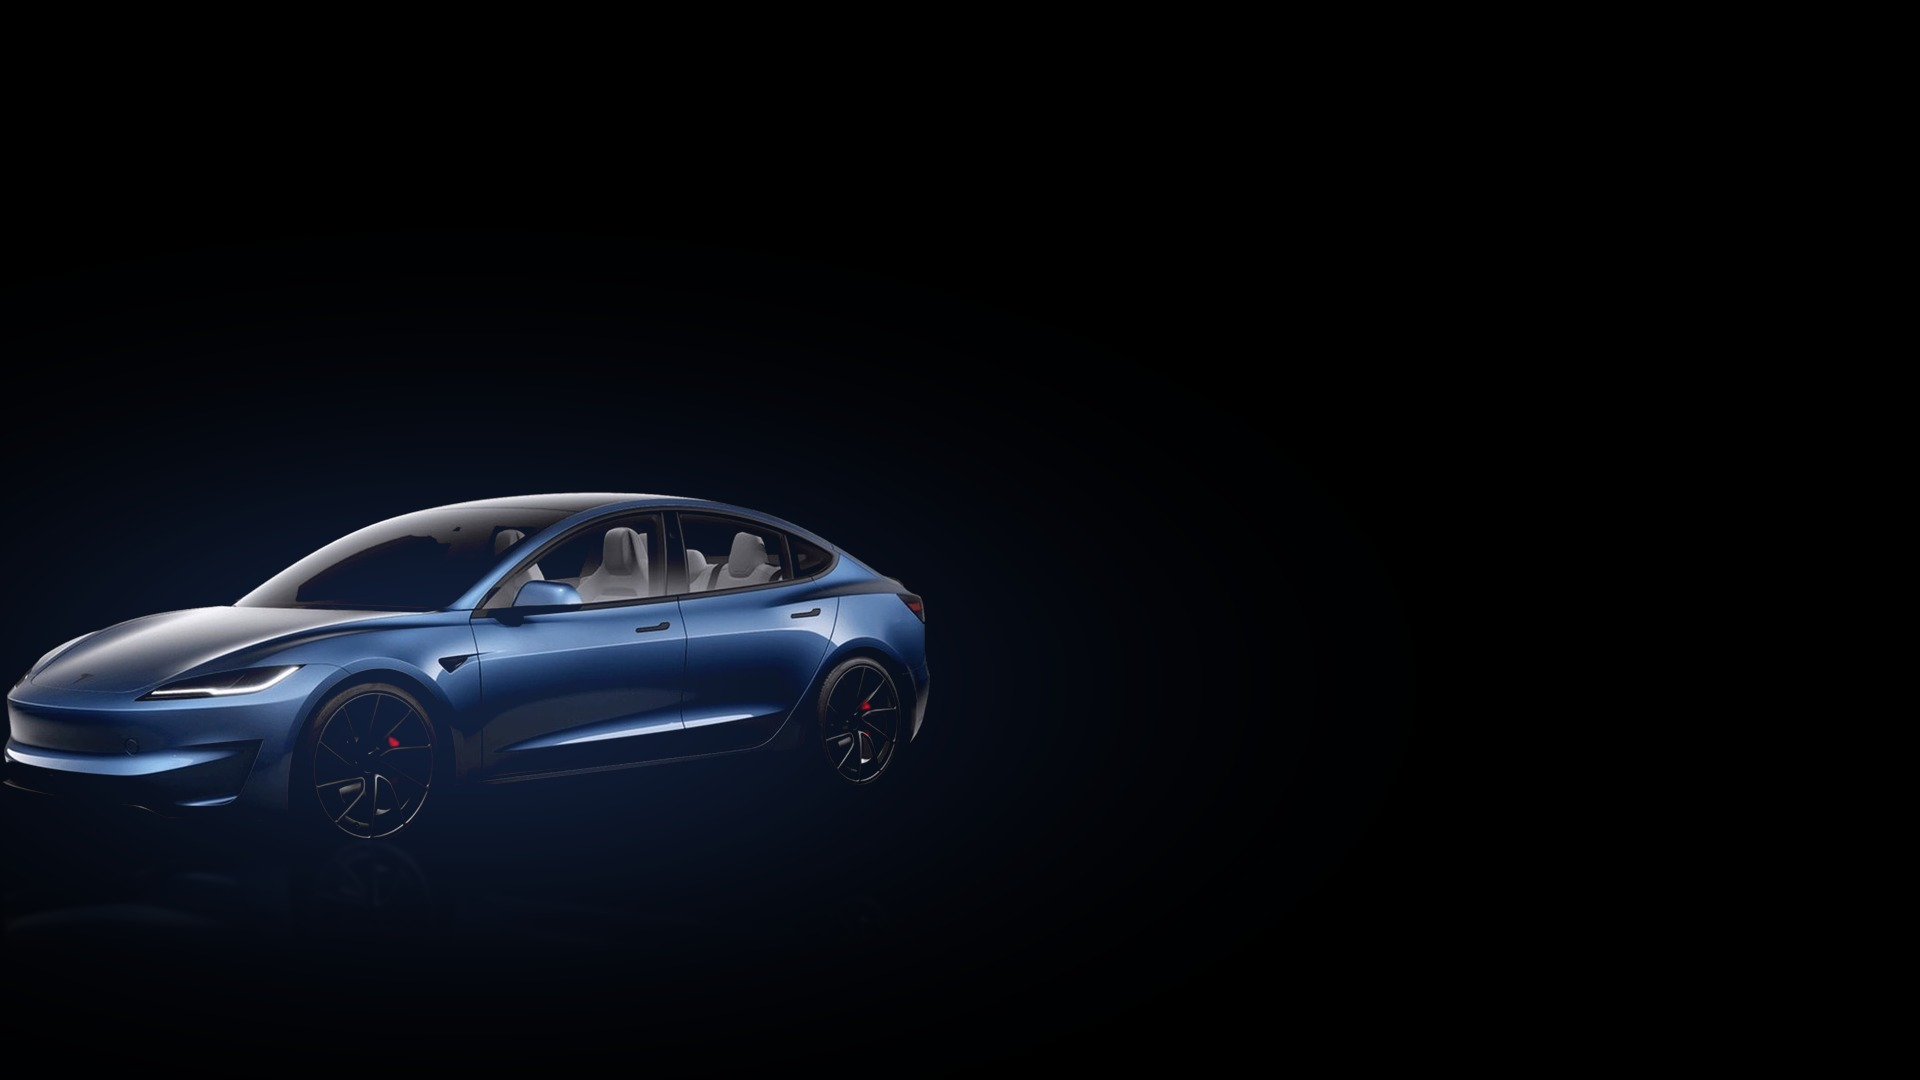
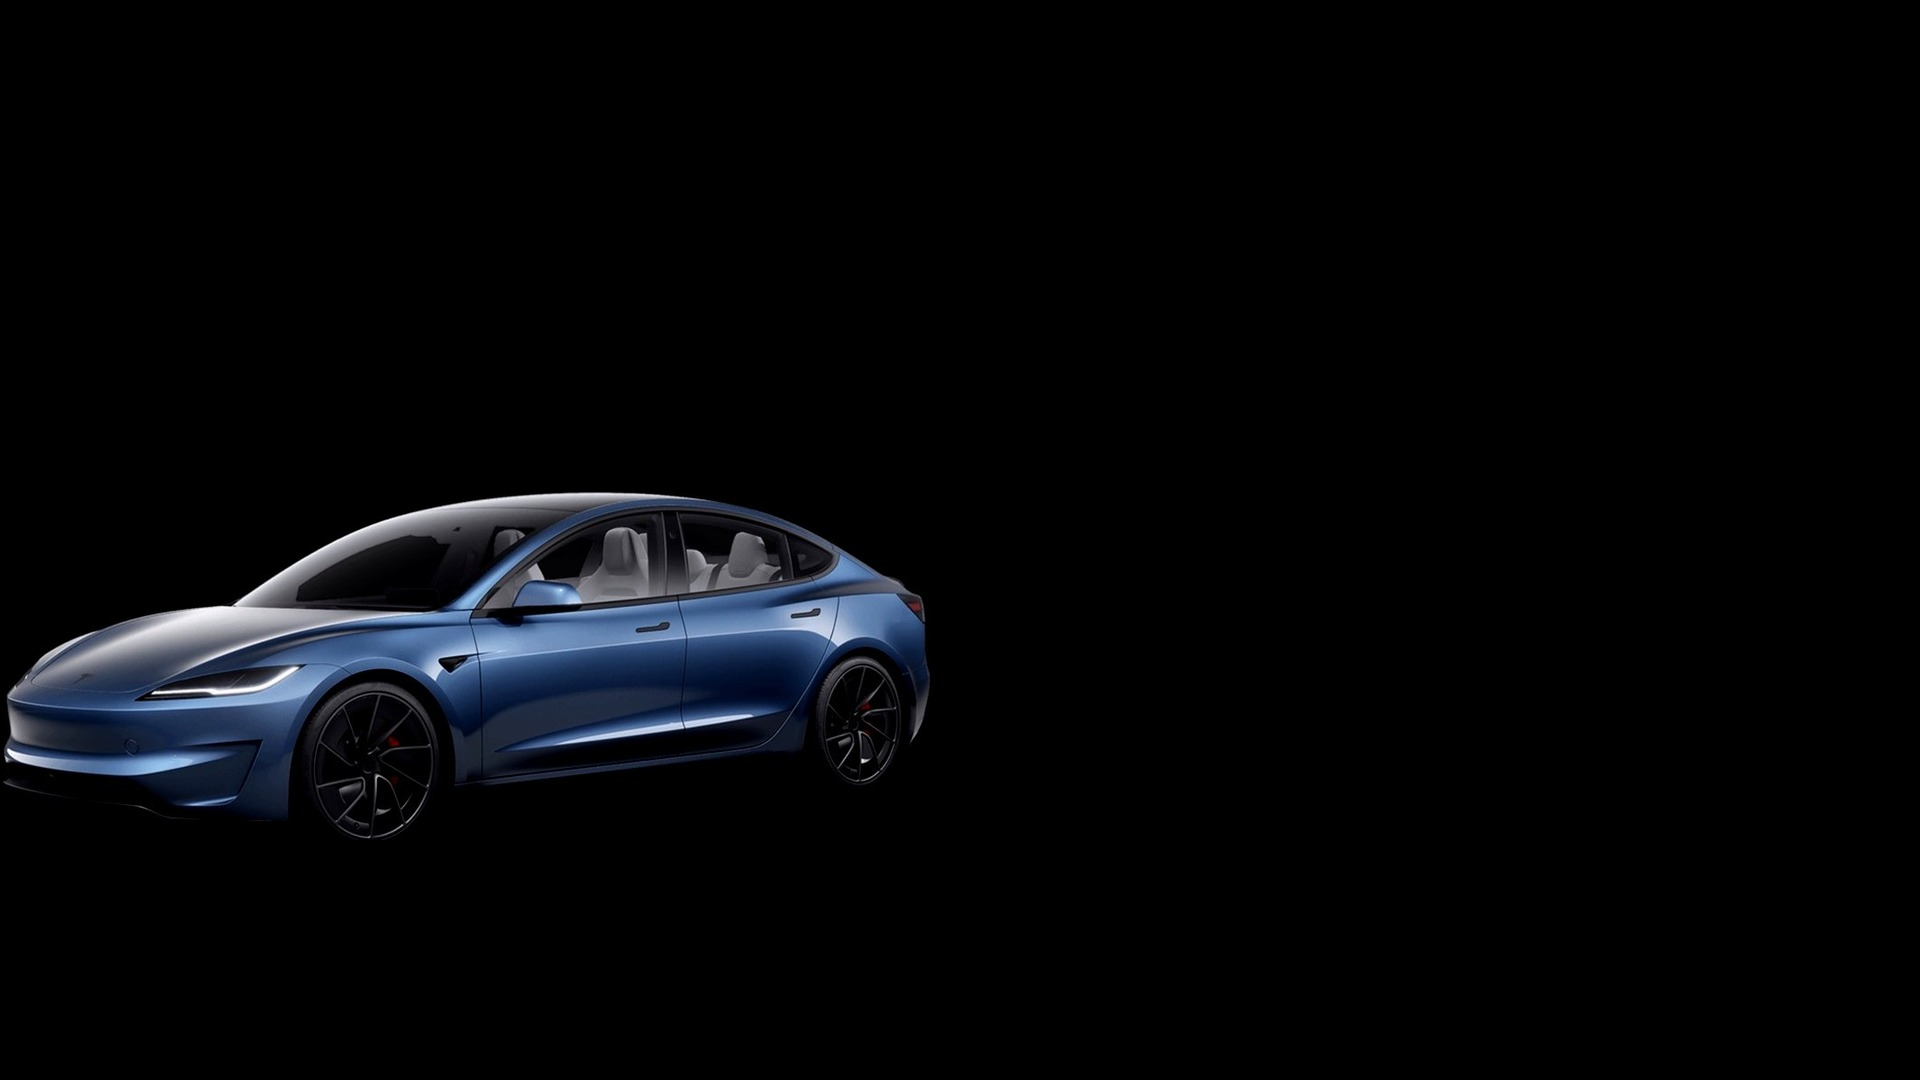
Original car at 0.9x SW on black, fixed app bar, after-hours Close/AH, wrapping news

Changed region(s): [[0.0, 0.5806, 0.5, 0.8556], [0.0, 0.3972, 0.4062, 0.6417], [0.0938, 0.6111, 0.125, 0.6417]]

diff --git a/markets.js b/markets.js
@@ -26,8 +26,8 @@
     var p = div('mkp', col), h = div('mkh', p, '<span>' + title + '</span>');
     if (extra) { var e = div('', h); e.id = extra; }
     for (var i = 0; i < keys.length; i++) {
-      var r = div('mkr', p, '<div class="t">' + label(keys[i]) + '</div><div class="s"></div><div class="p">–</div><div class="c"></div>');
-      rows[keys[i]] = {el: r, s: r.children[1], p: r.children[2], c: r.children[3], v: null, line: null};
+      var r = div('mkr', p, '<div class="t">' + label(keys[i]) + '</div><div class="s"></div><div class="p">–</div><div class="c"></div><div class="x"></div>');
+      rows[keys[i]] = {el: r, s: r.children[1], p: r.children[2], c: r.children[3], x: r.children[4], v: null, line: null};
     }
     return p;
   }
@@ -101,13 +101,25 @@
       if (p > 0 && prev > 0) set(s, p, (p / prev - 1) * 100);
     });
   }
+  function pct(a, b) { var v = (a / b - 1) * 100; return (v >= 0 ? '+' : '') + v.toFixed(1) + '%'; }
   function stocks() {
+    var open = mktOpen();
     SYMS.forEach(function (s) {
-      get('https://query1.finance.yahoo.com/v8/finance/chart/' + encodeURIComponent(s) + '?range=1d&interval=5m', function (t) {
+      get('https://query1.finance.yahoo.com/v8/finance/chart/' + encodeURIComponent(s) + '?range=1d&interval=5m&includePrePost=true', function (t) {
         try {
           var res = json(t).chart.result[0], m = res.meta, p = m.regularMarketPrice, prev = m.chartPreviousClose || m.previousClose;
-          var cl = (res.indicators.quote[0].close || []).filter(function (x) { return x > 0; });
-          if (p > 0 && prev > 0) { set(s, p, (p / prev - 1) * 100); if (cl.length > 1) line(s, cl); return; }
+          var ts = res.timestamp || [], q = res.indicators.quote[0].close || [], off = m.gmtoffset || -14400, cl = [], ah = 0;
+          for (var i = 0; i < ts.length; i++) {
+            if (!(q[i] > 0)) continue;
+            var mn = Math.floor(((ts[i] + off) % 86400) / 60);
+            if (mn >= 570 && mn < 960) cl.push(q[i]); else if (mn >= 960) ah = q[i];
+          }
+          if (p > 0 && prev > 0) {
+            set(s, p, (p / prev - 1) * 100); if (cl.length > 1) line(s, cl);
+            var o = rows[s];
+            if (o) o.x.innerHTML = open ? '' : 'Close' + (ah > 0 && s.charAt(0) !== '^' ? ' · AH ' + fmt(ah) + ' <span class="' + (ah >= p ? 'up' : 'dn') + '">' + pct(ah, p) + '</span>' : '');
+            return;
+          }
         } catch (e) {}
         stooq(s);
       });

diff --git a/dash.css b/dash.css
@@ -50,7 +50,7 @@
 #sky .grad, #sky canvas, #sky canvas.on { opacity: 0 !important; }
 #sky .veil, .night #sky .veil { background: rgba(0, 0, 0, 0.22) !important; }
 
-/* Layout v2.3: news panel moved to the empty space above the car's trunk (x 600..1110); car baked into bg.jpg (0.9x, moved SW, calipers boosted, glow + reflection). */
+/* Layout v2.3: news panel moved to the empty space above the car's trunk (x 600..1110); car baked into bg.jpg at 0.9x, moved SW (original pixels, black backdrop). */
 #mk .news { position: absolute; left: -570px; top: 0; width: 500px; margin: 0; }
 #sky, .night #sky { background-position: 0 0; }
 
@@ -61,3 +61,14 @@
 .tile .word { font-size: 22px !important; margin-top: -14px !important; height: 28px !important; line-height: 28px !important; }
 .tile img { max-height: 70% !important; } .tile img.logo { height: 62% !important; }
 .tile.focus { -webkit-transform: scale(1.12) !important; transform: scale(1.12) !important; }
+
+/* Fixed shelf (v2.3): the glass bar never resizes, moves or hides with the app count; tiles keep one size. */
+#platter { display: block !important; left: 40px !important; width: 1840px !important; }
+.tile { width: 190px !important; }
+
+/* After hours: a small 'Close · AH price change' line under each stock's price. */
+#mk .x { left: 300px; width: 230px; top: 64px !important; height: 24px; line-height: 24px; text-align: right; font-size: 16px; font-weight: 500; color: rgba(245, 245, 247, 0.55); white-space: nowrap; }
+#mk .x:empty { display: none; }
+#mk .p { top: -9px !important; }
+/* News headlines: a touch smaller, wrap to two lines instead of cutting off. */
+#mk .nt { font-size: 24px !important; line-height: 29px !important; white-space: normal !important; text-overflow: clip !important; max-height: 58px; overflow: hidden; display: -webkit-box; -webkit-line-clamp: 2; -webkit-box-orient: vertical; }
